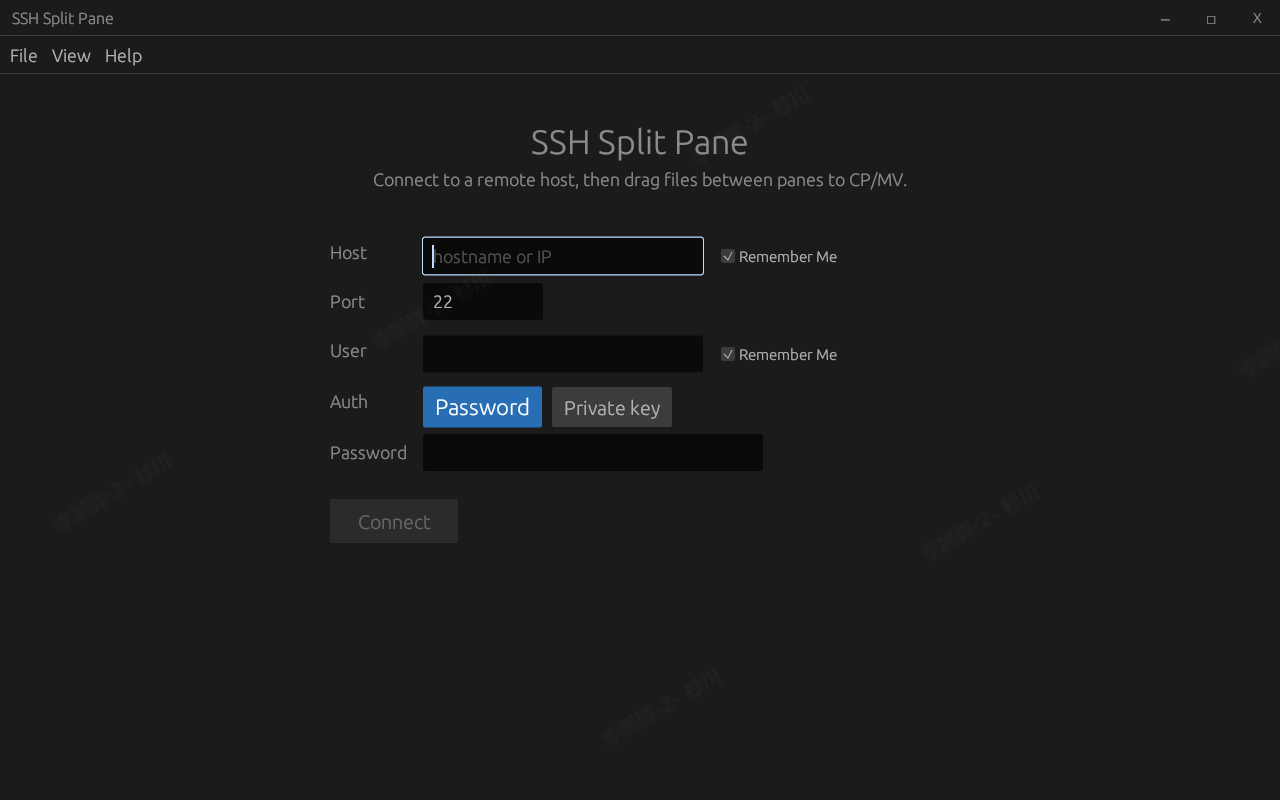
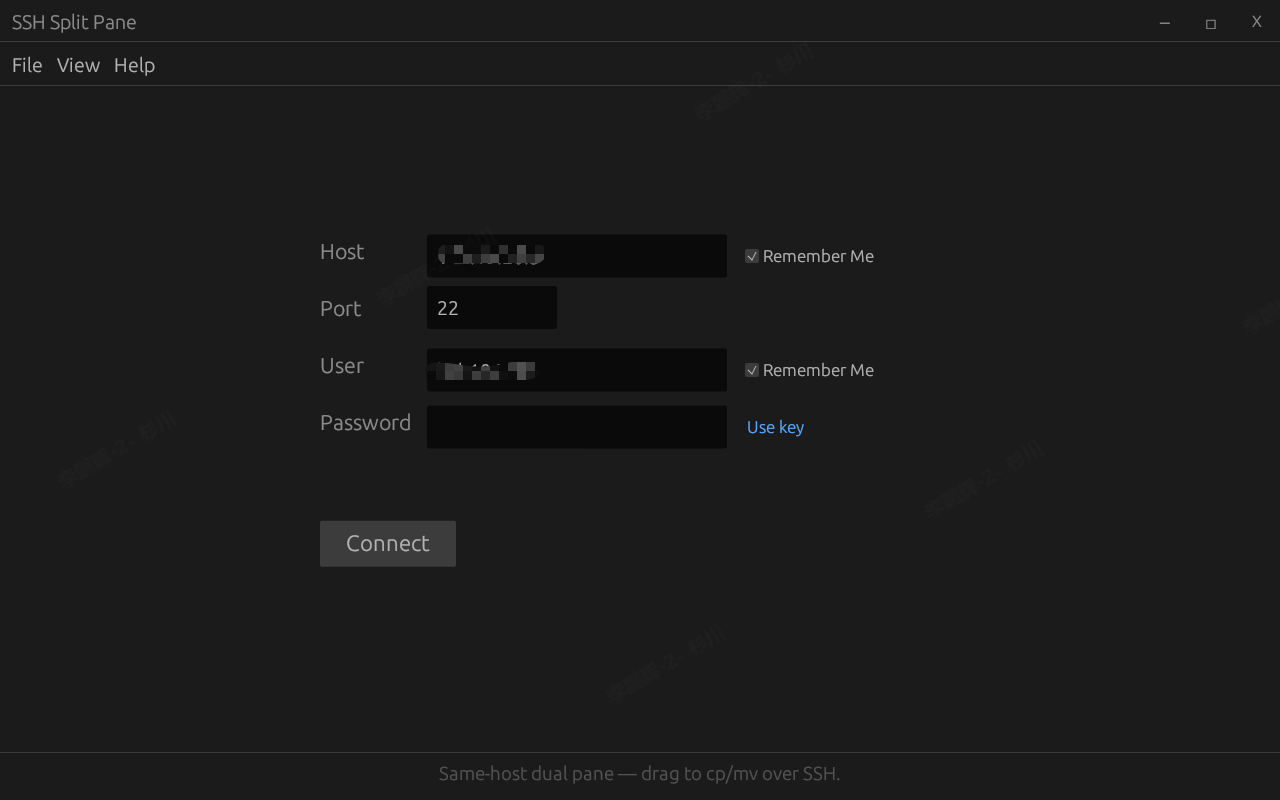
chore: release v0.1.4.
Refresh connect screenshot and bump version notes for the connect UI polish.

diff --git a/src/app.rs b/src/app.rs
@@ -692,7 +692,7 @@ impl App {
             return;
         }
         // Bump together with Cargo.toml version / git tag when cutting a release.
-        const RELEASE_TIME: &str = "2026-10-12 11:20 (UTC +8)";
+        const RELEASE_TIME: &str = "2026-10-12 12:55 (UTC +8)";
 
         // Area (no title bar): drag anywhere on the panel; keep a clear border.
         // Do not use Window `.anchor(...)` every frame — that pins position.

diff --git a/README.md b/README.md
@@ -10,17 +10,17 @@ Drag items between panes to run remote `cp` or `mv` on the **same host** (no loc
 ## Download
 
 Prebuilt binaries (when published) are on the
-[GitHub Releases](../../releases) page for the latest tag (currently **v0.1.3**).
+[GitHub Releases](../../releases) page for the latest tag (currently **v0.1.4**).
 
 | Platform | Artifact (typical) |
 |----------|--------------------|
-| Linux x86_64 | `ssh_pane-v0.1.3-linux-x86_64.tar.gz` |
-| Windows x86_64 | `ssh_pane-v0.1.3-windows-x86_64.zip` |
+| Linux x86_64 | `ssh_pane-v0.1.4-linux-x86_64.tar.gz` |
+| Windows x86_64 | `ssh_pane-v0.1.4-windows-x86_64.zip` |
 
 If no release assets are attached yet, build from source (below) or run:
 
 ```bash
-./scripts/package-release.sh v0.1.3
+./scripts/package-release.sh v0.1.4
 ```
 
 See [RELEASE_NOTES.md](RELEASE_NOTES.md) for what changed in each version.

diff --git a/README-zh.md b/README-zh.md
@@ -9,17 +9,17 @@ Windows/Linux 桌面工具：通过 SSH 做**远端双栏**文件浏览。
 
 ## 下载
 
-预编译包（发布后）见 [GitHub Releases](../../releases)，当前标签 **v0.1.3**。
+预编译包（发布后）见 [GitHub Releases](../../releases)，当前标签 **v0.1.4**。
 
 | 平台 | 典型产物名 |
 |------|------------|
-| Linux x86_64 | `ssh_pane-v0.1.3-linux-x86_64.tar.gz` |
-| Windows x86_64 | `ssh_pane-v0.1.3-windows-x86_64.zip` |
+| Linux x86_64 | `ssh_pane-v0.1.4-linux-x86_64.tar.gz` |
+| Windows x86_64 | `ssh_pane-v0.1.4-windows-x86_64.zip` |
 
 若尚未挂载 Release 资源，可自行编译（见下文），或执行：
 
 ```bash
-./scripts/package-release.sh v0.1.3
+./scripts/package-release.sh v0.1.4
 ```
 
 变更说明见 [RELEASE_NOTES.md](RELEASE_NOTES.md)。

diff --git a/RELEASE_NOTES.md b/RELEASE_NOTES.md
@@ -1,5 +1,11 @@
 # Release Notes
 
+## v0.1.4
+
+- Connect UI: larger form fonts; slogan below field labels; auth switch on the same row (**Use key** / **Password**)
+- Help menu polish; About dialog (movable, bordered, version from crate)
+- Refresh connect screenshot
+
 ## v0.1.3
 
 - **Preview** button label only (color shows on/off); item count sits after the filter box
